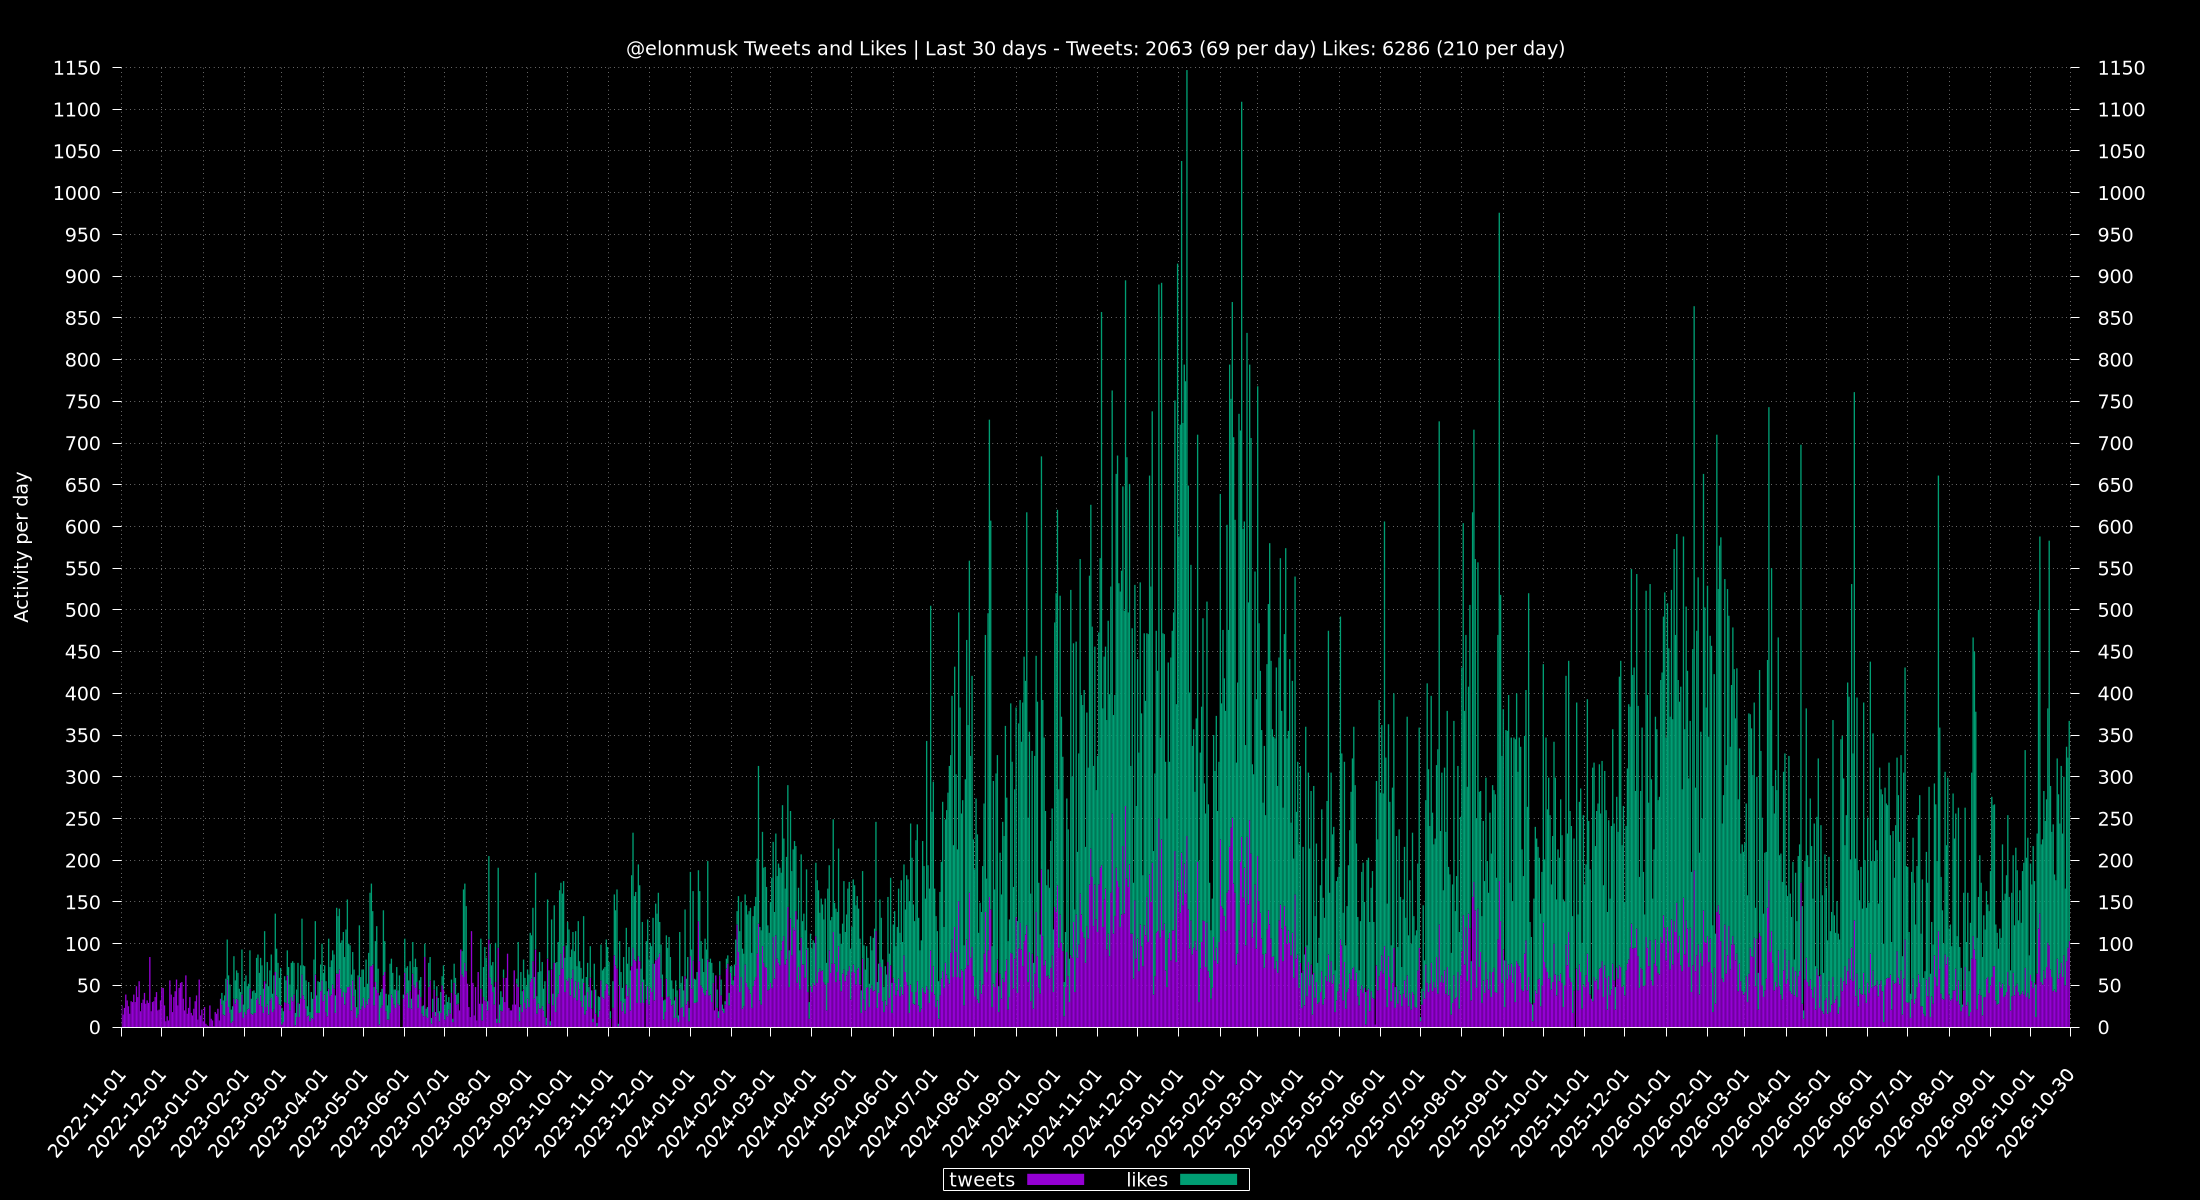
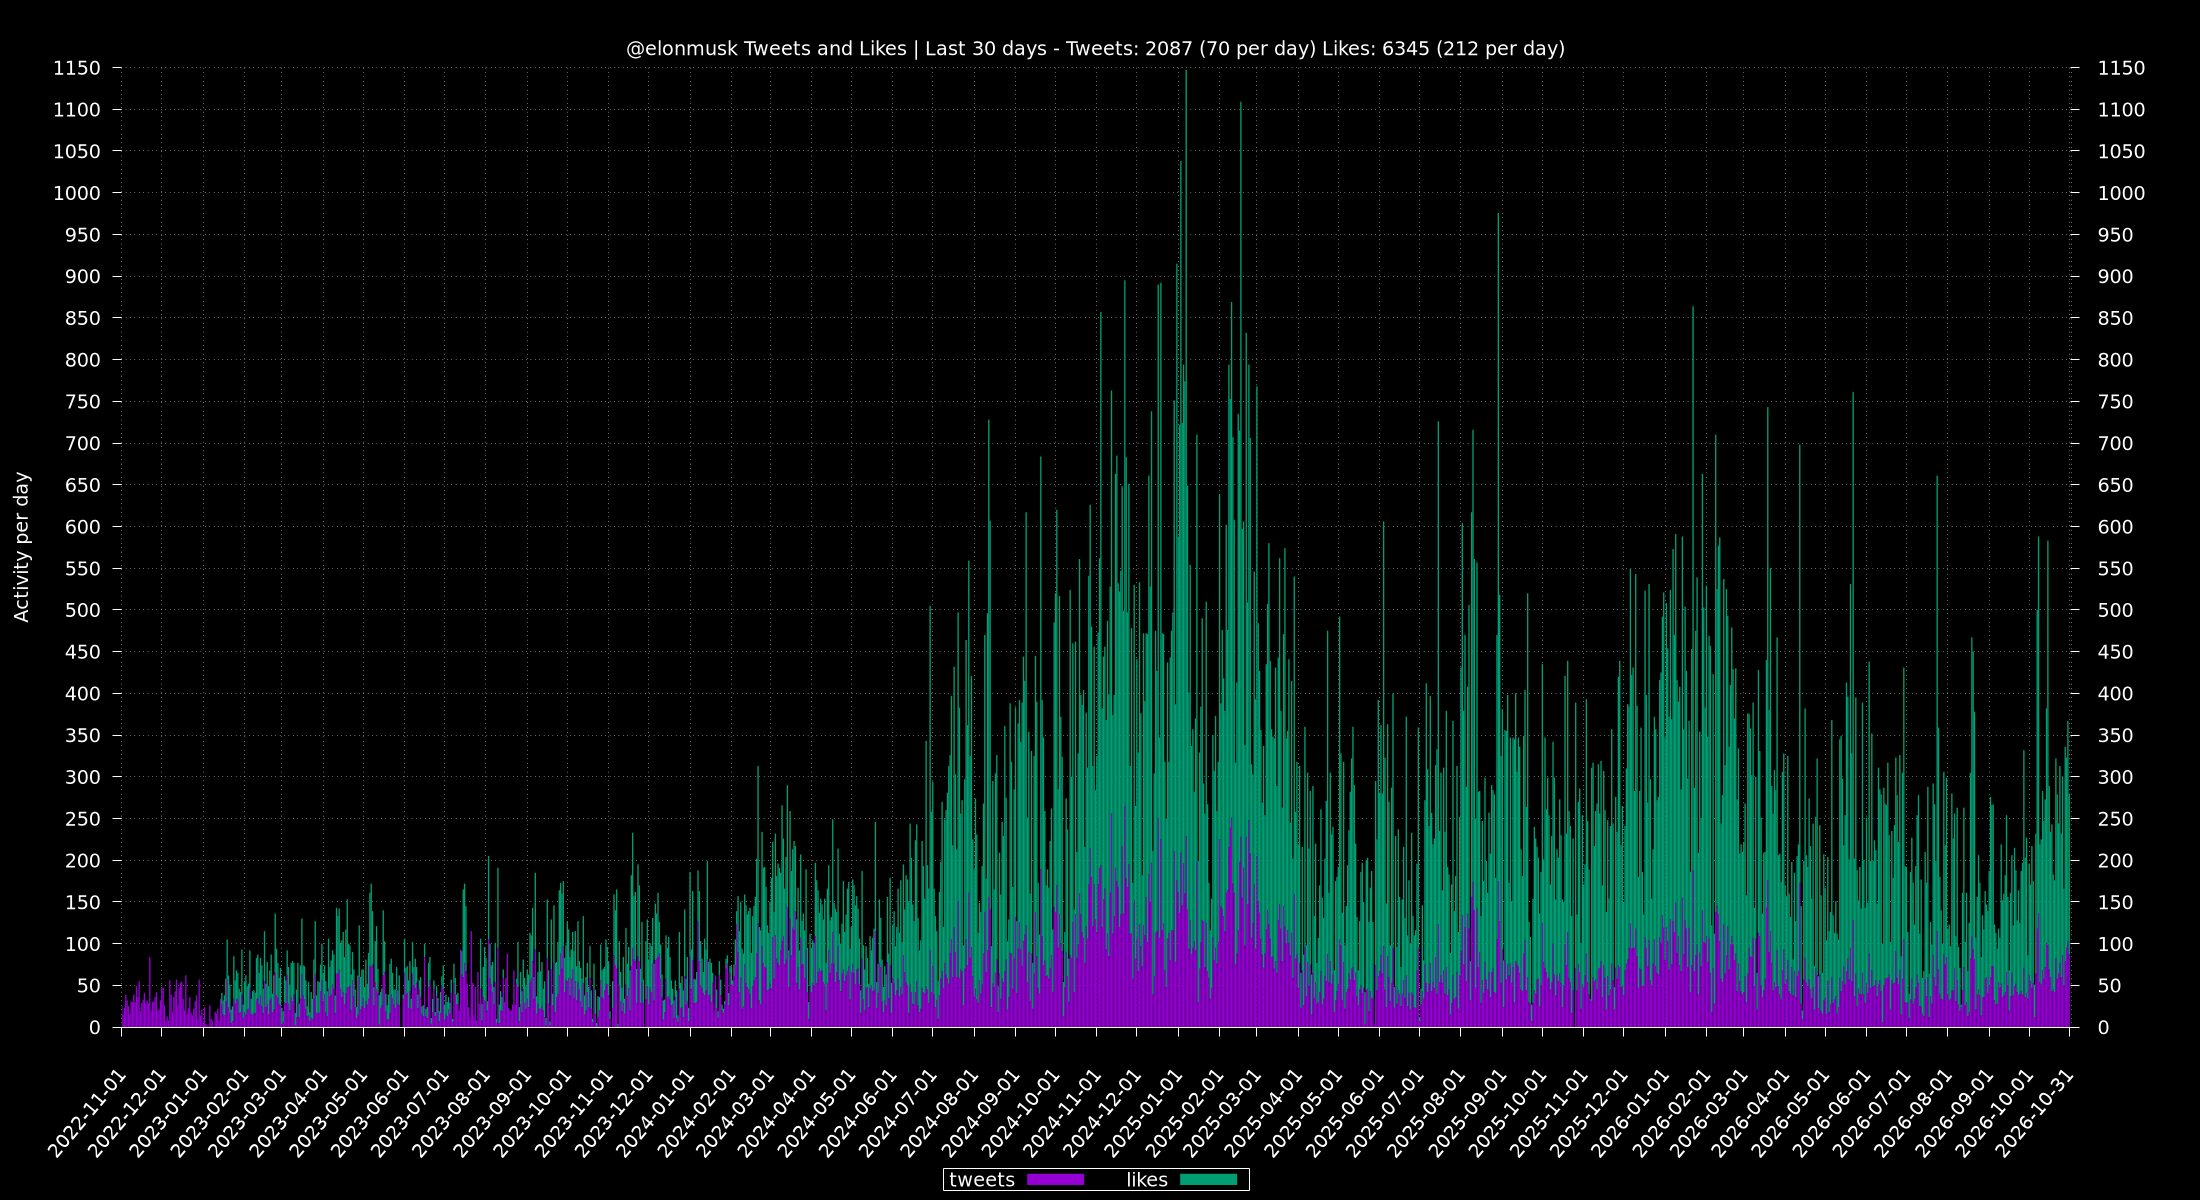
update via cron

diff --git a/totals/README.md b/totals/README.md
@@ -1,6 +1,6 @@
 ## Last 30 Days
-Tweets: 2063 (69 per day)\
-Likes: 6286 (210 per day)
+Tweets: 2150 (69 per day)\
+Likes: 6478 (209 per day)
 
 ## 24 Hours
 Max: [**341**](../misc/most-tweets_24-hr.csv) - From `2024-11-23 14:29:53 CST` To `2024-11-24 14:28:44 CST`
